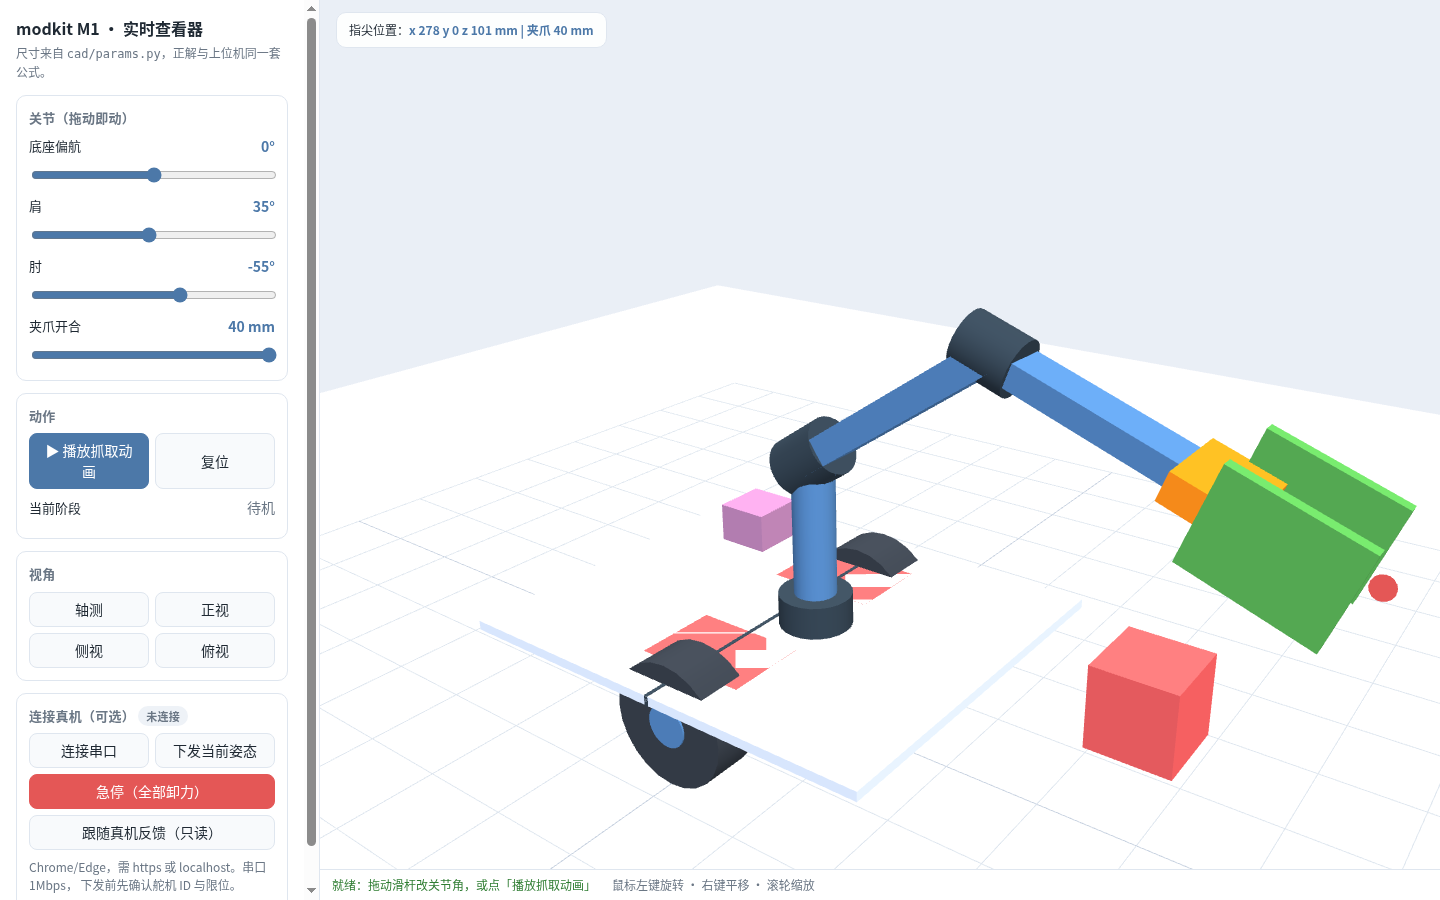
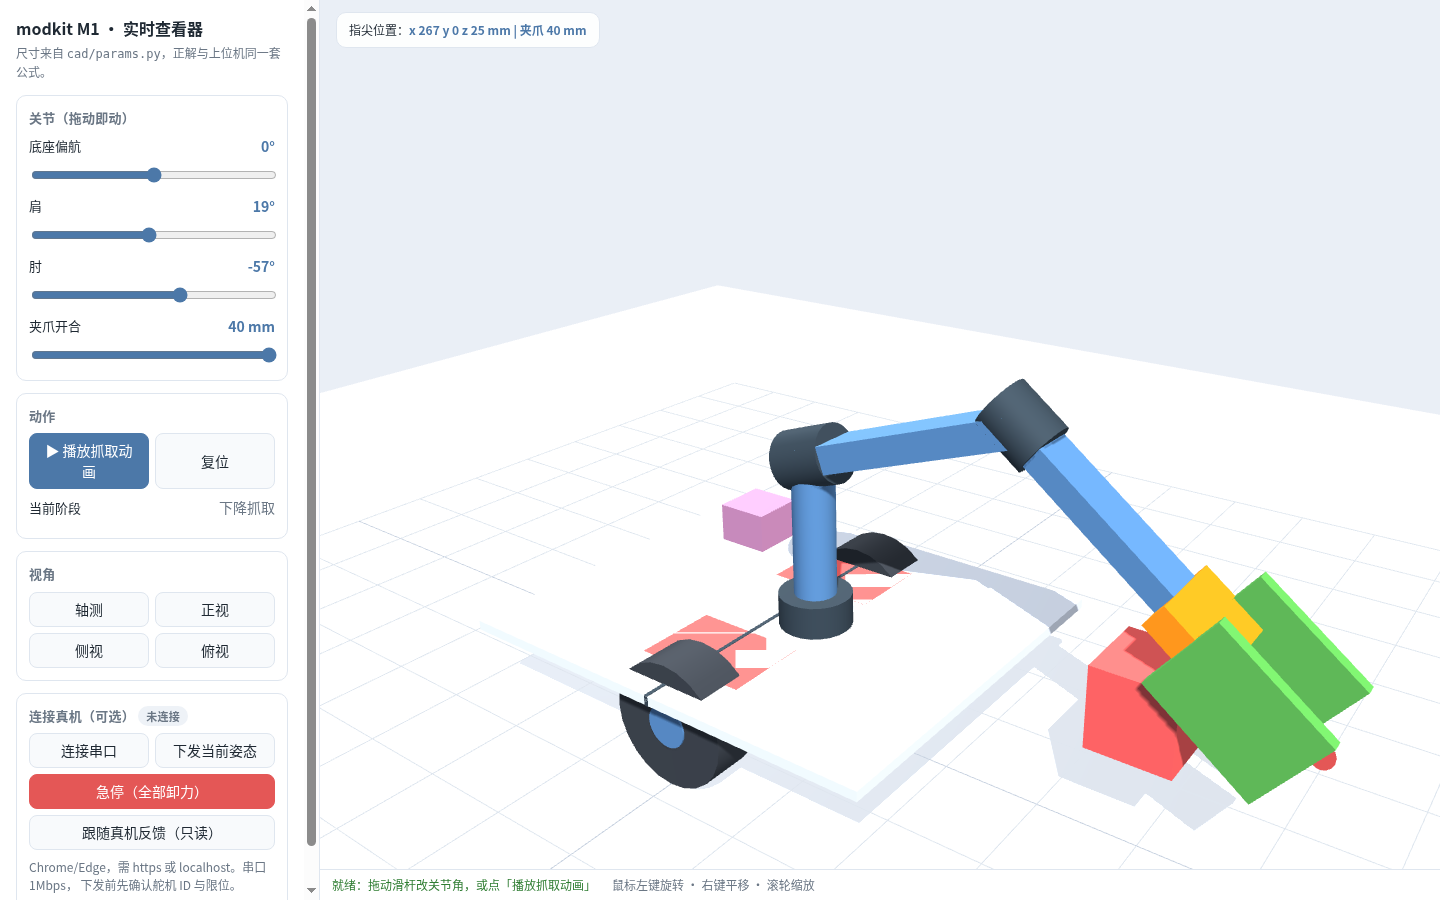
feat(web): 查看器换 Standard 材质 + 实时阴影，与渲染图观感统一

diff --git a/web/viewer.js b/web/viewer.js
@@ -31,6 +31,8 @@
   var canvas = $("view");
   var renderer = new THREE.WebGLRenderer({ canvas: canvas, antialias: true });
   renderer.setPixelRatio(Math.min(window.devicePixelRatio, 2));
+  renderer.shadowMap.enabled = true;
+  renderer.shadowMap.type = THREE.PCFSoftShadowMap;
 
   var scene = new THREE.Scene();
   scene.background = new THREE.Color(0xeaeff6);
@@ -45,8 +47,18 @@
   controls.dampingFactor = 0.08;
 
   scene.add(new THREE.HemisphereLight(0xffffff, 0x9aa4b2, 0.95));
-  var dir = new THREE.DirectionalLight(0xffffff, 0.75);
-  dir.position.set(300, -400, 500);
+  var dir = new THREE.DirectionalLight(0xfff6ec, 1.0);
+  dir.position.set(300, -420, 520);
+  dir.castShadow = true;
+  dir.shadow.mapSize.set(2048, 2048);
+  dir.shadow.camera.near = 50;
+  dir.shadow.camera.far = 2200;
+  dir.shadow.camera.left = -420;
+  dir.shadow.camera.right = 420;
+  dir.shadow.camera.top = 420;
+  dir.shadow.camera.bottom = -420;
+  dir.shadow.bias = -0.0009;
+  dir.shadow.radius = 3;
   scene.add(dir);
   var dir2 = new THREE.DirectionalLight(0xffffff, 0.35);
   dir2.position.set(-300, 250, 200);
@@ -55,9 +67,10 @@
   // 地面 + 网格（three 的 GridHelper 在 XZ 平面，转到 XY）
   var ground = new THREE.Mesh(
     new THREE.PlaneGeometry(1400, 1400),
-    new THREE.MeshLambertMaterial({ color: 0xf7f9fc })
+    new THREE.MeshStandardMaterial({ roughness: 0.72, metalness: 0.04, color: 0xf7f9fc })
   );
   ground.position.z = -55.1;
+  ground.receiveShadow = true;
   scene.add(ground);
 
   var grid = new THREE.GridHelper(800, 16, 0xc8d2e0, 0xdfe6ef);
@@ -66,24 +79,30 @@
   scene.add(grid);
 
   var MAT = {
-    chassis: new THREE.MeshLambertMaterial({ color: 0xd8dee9 }),
-    steel: new THREE.MeshLambertMaterial({ color: 0x4c78a8 }),
-    joint: new THREE.MeshLambertMaterial({ color: 0x2f3b45 }),
-    wheel: new THREE.MeshLambertMaterial({ color: 0x33383f }),
-    bracket: new THREE.MeshLambertMaterial({ color: 0xe45756 }),
-    gripper: new THREE.MeshLambertMaterial({ color: 0x54a24b }),
-    wrist: new THREE.MeshLambertMaterial({ color: 0xf58518 }),
-    servo: new THREE.MeshLambertMaterial({ color: 0x8c8c8c }),
-    cam: new THREE.MeshLambertMaterial({ color: 0xb279a2 }),
-    block: new THREE.MeshLambertMaterial({ color: 0xe45756 })
+    chassis: new THREE.MeshStandardMaterial({ roughness: 0.72, metalness: 0.04, color: 0xd8dee9 }),
+    steel: new THREE.MeshStandardMaterial({ roughness: 0.72, metalness: 0.04, color: 0x4c78a8 }),
+    joint: new THREE.MeshStandardMaterial({ roughness: 0.72, metalness: 0.04, color: 0x2f3b45 }),
+    wheel: new THREE.MeshStandardMaterial({ roughness: 0.72, metalness: 0.04, color: 0x33383f }),
+    bracket: new THREE.MeshStandardMaterial({ roughness: 0.72, metalness: 0.04, color: 0xe45756 }),
+    gripper: new THREE.MeshStandardMaterial({ roughness: 0.72, metalness: 0.04, color: 0x54a24b }),
+    wrist: new THREE.MeshStandardMaterial({ roughness: 0.72, metalness: 0.04, color: 0xf58518 }),
+    servo: new THREE.MeshStandardMaterial({ roughness: 0.72, metalness: 0.04, color: 0x8c8c8c }),
+    cam: new THREE.MeshStandardMaterial({ roughness: 0.72, metalness: 0.04, color: 0xb279a2 }),
+    block: new THREE.MeshStandardMaterial({ roughness: 0.72, metalness: 0.04, color: 0xe45756 })
   };
 
   function box(w, d, h, mat) {
-    return new THREE.Mesh(new THREE.BoxGeometry(w, d, h), mat);
+    var m = new THREE.Mesh(new THREE.BoxGeometry(w, d, h), mat);
+    m.castShadow = true;
+    m.receiveShadow = true;
+    return m;
   }
   function cyl(r, h, mat) {
     // three 的圆柱轴默认沿 Y，正好是轮轴方向
-    return new THREE.Mesh(new THREE.CylinderGeometry(r, r, h, 24), mat);
+    var m = new THREE.Mesh(new THREE.CylinderGeometry(r, r, h, 24), mat);
+    m.castShadow = true;
+    m.receiveShadow = true;
+    return m;
   }
 
   // ------------------------------------------------------------------ 机器人
